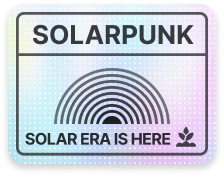
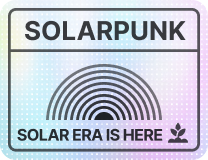
refactor: review changes

diff --git a/src/components/pages/home/paperwork/paperwork.tsx b/src/components/pages/home/paperwork/paperwork.tsx
@@ -22,7 +22,7 @@ const links = [
 
 function Paperwork() {
   return (
-    <section className="paperwork mt-36 px-safe lg:mt-[204px] md:mt-[88px] sm:mt-20">
+    <section className="paperwork mt-36 px-safe lg:mt-[121px] md:mt-[88px] sm:mt-20">
       <div className="container">
         <p className="fs-64 max-w-[1120px] font-title font-normal leading-[1.05] tracking-[-0.045em] text-gray-20 md:inline sm:block">
           We&apos;re here to support your solar ambitions.
@@ -31,13 +31,17 @@ function Paperwork() {
           From initial sketches to the growing pains of success, we&apos;ve got you covered.
         </p>
 
-        <div className="mt-12 flex items-center justify-between gap-8 lg:mt-11 md:mt-10 md:flex-col md:gap-6 sm:mt-[38px] sm:gap-5">
+        <div className="mt-12 flex items-center justify-between gap-8 lg:mt-11 md:mt-[38px] md:flex-col md:gap-6 sm:gap-5">
           <Card>
             <div className="fs-20 flex gap-x-8 gap-y-1 font-semibold lg:flex-col md:flex-row sm:flex-col">
-              {links.map(({ text, to }, i) => {
+              {links.map(({ text, to }, index) => {
                 return (
-                  <Link className="group flex items-center gap-2 leading-snug" href={to} key={i}>
-                    <ArrowIcon className="w-4 rotate-90 transition-all duration-100 group-hover:rotate-[90]" />
+                  <Link
+                    className="group flex items-center gap-1.5 leading-snug"
+                    href={to}
+                    key={index}
+                  >
+                    <ArrowIcon className="w-5 rotate-90 transition-all duration-100 group-hover:rotate-[90]" />
                     <span>{text}</span>
                   </Link>
                 );
@@ -50,11 +54,13 @@ function Paperwork() {
             />
           </Card>
           <Card>
-            <div className="flex flex-col gap-1 lg:gap-1 sm:gap-0.5">
-              <p className="fs-20 font-semibold text-gray-50">Up to</p>
-              <p className="fs-40 font-medium leading-dense">160% Crop + Solar</p>
-              <p className="fs-20 font-semibold text-gray-50">comparing to 100% Crop yields</p>
-            </div>
+            <p className="flex flex-col gap-1.5 lg:gap-1 sm:gap-0.5">
+              <span className="fs-20 font-semibold text-gray-50">Up to</span>
+              <span className="fs-40 font-medium leading-dense">160% Crop + Solar</span>
+              <span className="fs-20 font-semibold text-gray-50">
+                comparing to 100% Crop yields
+              </span>
+            </p>
             <CardContent
               title="Dual Use."
               subtitle="By installing solar panels above the crops, the same land can produce both food
@@ -68,8 +74,8 @@ function Paperwork() {
               Less paperwork
             </p>
             <div className="flex gap-[18px] sm:hidden">
-              {arrowsQty.map((_, i) => {
-                return <PixelArrowIcon className="arrow w-4" key={i} />;
+              {arrowsQty.map((_, index) => {
+                return <PixelArrowIcon className="arrow w-4" key={index} />;
               })}
             </div>
             <PixelArrowIcon className="single-arrow hidden w-3 rotate-90 fill-white sm:block" />

diff --git a/src/components/pages/home/farm/farm.tsx b/src/components/pages/home/farm/farm.tsx
@@ -1,5 +1,7 @@
 import Image from 'next/image';
 
+import clsx from 'clsx';
+
 import panelImage from '@/images/farm/panel.jpg';
 
 import cereals from '@/svgs/icons/cereals.svg';
@@ -23,7 +25,7 @@ const items = [
 
 function Farm() {
   return (
-    <section className="farm mb-[220px] mt-[219px] px-safe lg:mb-[157px] lg:mt-[162px] md:mb-[136px] md:mt-[133px] sm:mb-[104px] sm:mt-[103px]">
+    <section className="farm mb-[220px] mt-[219px] px-safe lg:mb-[157px] lg:mt-[160px] md:mb-[136px] md:mt-[133px] sm:mb-[104px] sm:mt-[103px]">
       <div className="container flex max-w-[1408px] justify-between lg:gap-x-8 md:max-w-lg md:flex-col md:items-center md:gap-y-10 sm:gap-y-9">
         <div className="flex max-w-xl flex-col">
           <h2 className="fs-64 font-title leading-none lg:text-52 md:text-48 sm:text-36">
@@ -34,14 +36,17 @@ function Farm() {
             potentially extends growing seasons.
           </p>
           <ul className="relative mb-0.5 mt-auto md:mt-11 sm:mt-[38px]">
-            {items.map(({ text, icon }, i) => {
+            {items.map(({ text, icon }, index) => {
               return (
                 <li
-                  className="flex items-center gap-x-7 border-t py-8 last:border-b lg:gap-x-[23px] lg:py-7 md:py-5"
-                  key={i}
+                  className={clsx(
+                    'flex items-center gap-x-7 border-t py-8 lg:gap-x-[23px] lg:py-7 md:py-5',
+                    index === items.length - 1 && 'border-b',
+                  )}
+                  key={index}
                 >
                   <div className="flex h-14 w-14 shrink-0 items-center justify-center rounded-[5px] bg-[#323232] md:h-12 md:w-12 sm:h-11 sm:w-11">
-                    <img className="w-[42px] md:w-9" src={icon} alt="" />
+                    <img className="w-[42px] md:w-9" src={icon} alt="" loading="lazy" />
                   </div>
                   <p className="fs-20 pr-[74px] tracking-tight lg:pr-1 md:max-w-[368px] sm:text-16">
                     {text}

diff --git a/src/components/pages/home/hero/hero.tsx b/src/components/pages/home/hero/hero.tsx
@@ -6,7 +6,7 @@ import stickerImage from '@/images/hero/sticker.png';
 
 function Hero() {
   return (
-    <section className="hero relative pb-[403px] pt-[200px] px-safe lg:pb-[248px] md:pb-[402px] sm:pb-[263px]">
+    <section className="hero relative pb-14 pt-[200px] px-safe lg:pb-[47px] md:pb-[39px] sm:pb-8">
       <div className="container">
         <div className="flex max-w-[726px] flex-col text-white">
           <h1 className="font-title text-[104px] font-medium leading-[0.9] tracking-snug lg:text-[88px] md:text-[64px] sm:text-[44px]">
@@ -16,17 +16,19 @@ function Hero() {
           <p className="mt-3.5 max-w-[480px] text-24 font-normal leading-tight lg:max-w-[430px] lg:text-20 md:max-w-[380px] md:text-18 sm:text-16">
             Accelerate global transition to renewable energy while capitalizing on your acres.
           </p>
-          <SubscribeForm className="mt-16 md:mt-12" />
+          <SubscribeForm className="mt-16 md:mt-[50px]" />
         </div>
+        <Image
+          className="z-10 ml-auto mr-[128px] mt-[267px] rounded-lg shadow-mission-sticker lg:mr-0 lg:mt-[120px] md:mt-[280px] sm:mt-[169px] sm:h-[60px] sm:w-[78px]"
+          src={stickerImage}
+          width={104}
+          height={80}
+          alt=""
+          quality={90}
+          priority
+        />
         <div className="absolute bottom-0 left-0 right-0 top-14 -z-10 bg-[#228B22] sm:top-[42px]" />
       </div>
-      <Image
-        className="absolute bottom-14 right-80 z-10 lg:bottom-12 lg:right-8 md:bottom-10 sm:bottom-8 sm:right-5 sm:h-[60px] sm:w-[78px]"
-        src={stickerImage}
-        width={104}
-        height={80}
-        alt=""
-      />
     </section>
   );
 }

diff --git a/src/components/pages/home/sources/card/card.tsx b/src/components/pages/home/sources/card/card.tsx
@@ -28,7 +28,7 @@ function Card({
   return (
     <li className="relative flex flex-col overflow-hidden rounded-xl bg-[url('/images/sources/noise.png')] bg-center bg-repeat p-8 shadow-sources-card backdrop-blur-3xl lg:p-6 md:col-span-full md:min-h-[300px] md:flex-row sm:flex-col">
       <div className="absolute inset-0 rounded-xl bg-sources-card-bg" />
-      <div className="md:basis-1/2 md:pr-6 md:text-center sm:pr-0 sm:text-start">
+      <div className="z-10 md:basis-1/2 md:pr-6 md:text-center sm:pr-0 sm:text-start">
         <p className="text-14 leading-snug tracking-tighter">
           <span className="mr-2">{type}</span>|<span className="ml-2">{year}</span>
         </p>
@@ -39,7 +39,7 @@ function Card({
           {subtitle}
         </h3>
       </div>
-      <div className="mt-[70px] flex flex-col border-t border-white/30 lg:mt-[60px] md:mt-0 md:basis-1/2 md:border-l md:border-t-0 md:pl-7 sm:mt-9 sm:border-l-0 sm:border-t sm:pl-0 sm:pt-5">
+      <div className="z-10 mt-[70px] flex flex-col border-t border-white/30 lg:mt-[60px] md:mt-0 md:basis-1/2 md:border-l md:border-t-0 md:pl-7 sm:mt-9 sm:border-l-0 sm:border-t sm:pl-0 sm:pt-5">
         <p className="fs-20 mt-8 font-medium lg:mt-[29px] md:mt-0">{description}</p>
         <p className="fs-16 mt-2.5 leading-snug tracking-tight text-white/85">{text}</p>
         <Button

diff --git a/src/components/pages/home/mission/mission.tsx b/src/components/pages/home/mission/mission.tsx
@@ -4,7 +4,7 @@ import solarPunk from '@/images/mission/solarpunk.png';
 
 function Mission() {
   return (
-    <section className="mission relative bg-primary-green pb-[23px] pt-[31px] px-safe lg:py-[25px] sm:py-5">
+    <section className="mission relative bg-primary-green pb-[21px] pt-[31px] px-safe lg:py-[25px] sm:py-5">
       <div className="container">
         <span className="inline-block align-middle text-20 font-semibold uppercase tracking-wider lg:max-w-[685px] lg:text-18 lg:leading-[1.8] md:max-w-[597px] sm:text-16 sm:leading-[1.5]">
           Our mission is to 100x the deployment of solar panels by&nbsp;2033 and create a
@@ -14,6 +14,8 @@ function Mission() {
             width={170}
             height={32}
             alt="solarpunk"
+            quality={90}
+            priority
           />
           Future by 2077.
         </span>

diff --git a/src/components/pages/home/sources/sources.tsx b/src/components/pages/home/sources/sources.tsx
@@ -44,11 +44,17 @@ function Sources() {
   return (
     <section className="sources relative px-safe">
       <ul className="container grid max-w-[1376px] grid-cols-3 gap-[30px] py-60 text-white lg:gap-6 lg:pb-[176px] lg:pt-[168px] md:max-w-[706px] md:py-[88px] sm:gap-5 sm:py-16">
-        {cards.map((item, i) => {
-          return <Card {...item} key={i} />;
+        {cards.map((item, index) => {
+          return <Card {...item} key={index} />;
         })}
       </ul>
-      <Image className="-z-10" src={bg} alt="solarpunk" fill />
+      <Image
+        className="absolute inset-0 -z-10 h-full w-full object-cover object-center"
+        src={bg}
+        width={1920}
+        height={1104}
+        alt=""
+      />
     </section>
   );
 }

diff --git a/src/styles/arrows.css b/src/styles/arrows.css
@@ -10,24 +10,35 @@
 @keyframes glow {
   0% {
     fill: #5e616e;
+    transform: scale(1);
   }
-  17% {
+  14% {
     fill: #9194a1;
+    transform: scale(1.05);
   }
-  34% {
+  28% {
     fill: #c7c9d1;
+    transform: scale(1.1);
   }
-  50% {
+  42% {
     fill: #ffffff;
+    transform: scale(1.15);
   }
-  67% {
+  56% {
     fill: #c7c9d1;
+    transform: scale(1.1);
+  }
+  70% {
+    fill: #9194a1;
+    transform: scale(1.05);
   }
   84% {
-    fill: #9194a1;
+    fill: #777a88;
+    transform: scale(1);
   }
   100% {
     fill: #5e616e;
+    transform: scale(0.95);
   }
 }
 

diff --git a/tailwind.config.js b/tailwind.config.js
@@ -90,7 +90,8 @@ module.exports = {
           'conic-gradient( from 0deg, rgba(255, 255, 255, 0.47) 15%, rgba(255, 255, 255, 0.10) 24%, rgba(255, 255, 255, 1.00) 47%, rgba(255, 255, 255, 0.30) 71%, rgba(255, 255, 255, 0.10) 81%, rgba(255, 255, 255, 0.60) 100%)',
       }),
       boxShadow: {
-        'sources-card': '0px 4px 20px 0px rgba(0, 0, 0, 0.08);',
+        'sources-card': '0px 4px 20px 0px rgba(0, 0, 0, 0.08)',
+        'mission-sticker': '0px 2px 4px 0px rgba(0, 0, 0, 0.20)',
       },
     },
   },
